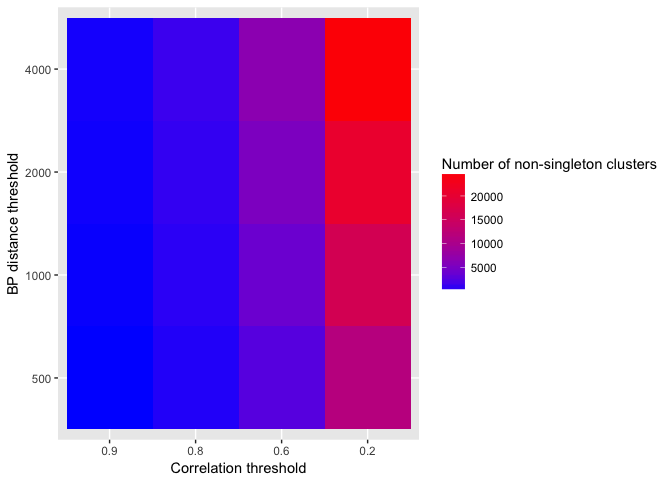
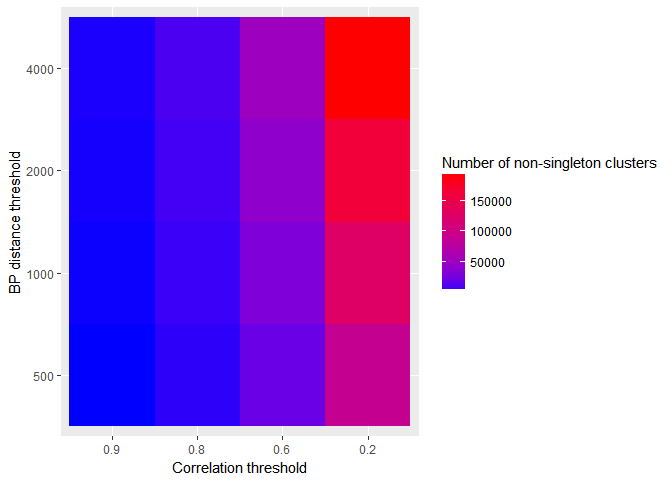
'step1'

diff --git a/Step-1-Data Processing/Step1.md b/Step-1-Data Processing/Step1.md
@@ -1,4 +1,4 @@
-Gene Heros: Step1- Preprocessing and Data Preparation
+Gene Heros: Step1 - Preprocessing and Data Preparation
 ================
 Sina Jafarzadeh
 January 13, 2018
@@ -8,45 +8,72 @@ library(ggplot2)
 library(pheatmap)
 library(magrittr)
 library(reshape2)
+library(tibble)
+library(dplyr)
 ```
+
+    ## 
+    ## Attaching package: 'dplyr'
+
+    ## The following objects are masked from 'package:stats':
+    ## 
+    ##     filter, lag
+
+    ## The following objects are masked from 'package:base':
+    ## 
+    ##     intersect, setdiff, setequal, union
 
 ***1.1 Data Introduction***
 
-Our data consists of the gene expression and methylation measurements for 508 and 702 subjects, respectively. We organized the data into the following files:
+Our data consists of the gene expression and methylation measurements for `508` and `702` subjects, respectively. We organize the data into the following files:
 
--   gene\_expression.csv: a 420103\*702 matrix showing the values for ~420 K CpG sites across 702 samples.
--   methylation.csv: a 508\*13484 matrix showing the values for ~13 K genes across 508 samples.
--   genes\_name.csv: a 13484 elements vector containing the gene symbol and the ensemble name for all genes.
--   cpg\_sites\_name: a 420103 elements vector containing the names for all cpg sites according to the Illumina Infinium HumanMethylation450K BeadChip naming convention.
--   subjects\_in\_gene\_expression\_data.csv: the cols in gene expression matrix presenting the name of subjects that we collected gene expression data for.
--   subjects\_in\_methylation\_data.csv: the rows in gene expression matrix presenting the name of subjects that we collected gene expression data for.
-
-Apparently, it imposes an unnecessary huge number of hypothesis, testing the correlation between each single CpG site and gene pair. So, We solely analyze the probes locating in a 1MB window around the gene of interest using the information encoded in probe\_gene\_distance\_matrix\_sparse.csv.
+-   `gene_expression.csv`: a 420103\*702 matrix showing the values for ~420 K CpG sites across 702 samples.
+-   `methylation.csv`: a 508\*13484 matrix showing the values for ~13 K genes across 508 samples.
+-   `genes_name.csv`: a 13484 elements vector containing the gene symbol and the ensemble name for all genes.
+-   `cpg_sites_name.csv`: a 420103 elements vector containing the names for all cpg sites according to the Illumina Infinium HumanMethylation450K BeadChip naming convention.
+-   `subjects_in_gene_expression_data.csv`: column names in gene expression matrix presenting the name of subjects that we collected gene expression data for.
+-   `subjects_in_methylation_data.csv`: the row names in gene expression matrix presenting the name of subjects that we collected gene expression data for.
+-   `methylationCoordChromHMM.csv`: chromatine state annotation for CpG sites according to ChromHMM software. Apparently, it imposes an unnecessary huge number of hypothesis, testing the correlation between each single CpG site and gene pair. So, We solely analyze the probes locating in a 1MB window around the gene of interest using the information encoded in `probe_gene_distance_matrix_sparse.csv`.
 
 ***1.2 Multicollinearity of Methylation Probes***
 
-It is known that methylation probes can be in strong Linkage Disequilibrium (LD) with their neighbouring probes. So, we need to reduce the number of probes to a set of unrelated ones. It helps us to decrease the computational cost of the model. Moreover, It is necessary to have uncorrelated probes in the second phase of the project where we want to provide a linear predictor of multiple probes for the gene of interest. There are a few tools developed for this purpose. In this project, we use A-clust algorithm provided by Harvard University. This algorithm first merges each pair of nearby probes and all of the probes located between them if the correlation between that pair is more than corr\_dist\_thresh. Nearby pairs are pairs of probes with a base pair distance less than bp\_dist\_thresh. In the next step, it merges each two neighbour probes if their correlation distance is less than corr\_dist\_thresh. We find the best values for these parameters by creating train and validation datasets. We choose the parameters based on train data and then see if they work on another validation data. We choose CpG sites on chromosomes 1-18 as train data and CpG sites in chromosome 19-22 as validation. We choose the parameters that decrease the number of probes (i.e. create as much cluster as possible) and yield the highest intra-cluster correlation between probes. Below, we plot the results for train set chromosomes:
-
-
-
-    report_matrix_clusts_number_non_singles_train <- read.table("a-clustering/report_matrix_clusts_number_non_singles_train.csv", header=FALSE, sep=",")
-    report_matrix_intra_cluster_corr_non_singles_train <- read.table("a-clustering/report_matrix_corrs_non_singles_train.csv", header=FALSE, sep=",")
-
-    row_col_combinaions = expand.grid(corr_threshold=c("0.9", "0.8", "0.6", "0.2"), bp_dist_threshold=c("500","1000","2000","4000"))
-    report_matrix_clusts_number_non_singles_train_melt = report_matrix_clusts_number_non_singles_train %>% melt()
-    report_matrix_intra_cluster_corr_non_singles_train_melt = report_matrix_intra_cluster_corr_non_singles_train %>%  melt()
-
-    heatmap_data = cbind(row_col_combinaions, number_of_clusters=report_matrix_clusts_number_non_singles_train_melt$value)
-    heatmap_data %>% ggplot(aes(corr_threshold,bp_dist_threshold,fill = number_of_clusters)) + geom_tile() + scale_fill_gradient("Number of non-singleton clusters",low = 'blue',high = 'red') +xlab('Correlation threshold')+ylab('BP distance threshold') 
-
-    heatmap_data = cbind(row_col_combinaions, intra_cluster_correlation=report_matrix_intra_cluster_corr_non_singles_train_melt$value)
-    heatmap_data %>% ggplot(aes(corr_threshold,bp_dist_threshold,fill = intra_cluster_correlation)) + geom_tile() + scale_fill_gradient("Average intra-cluser correlation",low = 'blue',high = 'red') +xlab('Correlation threshold')+ylab('BP distance threshold') 
-
-The plots suggest that corr\_threshold = 0.8 and bp\_dist\_threshold = 1000 are the best parameters in terms of the intra-cluster correlation/number of clusters trade-off. The authors of A-clust paper also suggested this parameter in their experiment on human methylation data, supporting the chosen parameters in our problem. Now, we investigate the parameters on validation set. Below, you see the similar plots for validation data:
+It is known that methylation probes can be in strong Linkage Disequilibrium (LD) with their neighbouring probes. So, we need to reduce the number of probes to a set of unrelated ones. It helps us to decrease the computational cost of the model. Moreover, It is necessary to have uncorrelated probes in the second phase of the project where we want to design linear and non-linear predictors of multiple probes for the gene of interest. Having highly correlation probes impose biases to the predictor results. There are a few tools developed for this purpose. In this project, we use [A-clust algorithm](https://academic.oup.com/bioinformatics/article/29/22/2884/314757) developed by Harvard University. This algorithm first merges each pair of nearby probes and all of the probes located between them if the correlation between that pair is more than `corr_dist_thresh` parameter. Nearby pairs are pairs of probes with a base pair distance less than `bp_dist_thresh` parameter. In the next step, it merges each two neighbour probes if their correlation distance is less than `corr_dist_thresh`. We find the best values for these parameters by creating train and validation datasets. We choose the parameters based on train data and then see if they work on another validation data. We choose CpG sites on chromosomes 1-18 as train data and CpG sites in chromosome 19-22 as validation. We choose the parameters that decrease the number of probes (i.e. create as much cluster as possible) and yield the highest intra-cluster correlation between probes. Below, we plot the results for train set chromosomes. In thie first plot we see the number of clusters with more than one probe for different configuration of parameters. In the second plot, we report the average intra-cluster correlation for the clusters found in previous plot.
 
 ``` r
-report_matrix_clusts_number_non_singles_test <- read.table("../Results/a-clust/report_matrix_clusts_number_non_singles_test.csv", header=FALSE, sep=",")
-report_matrix_intra_cluster_corr_non_singles_test <- read.table("../Results/a-clust/report_matrix_corrs_non_singles_test.csv", header=FALSE, sep=",")
+load("../rosmap_postprocV2.RData")
+
+report_matrix_clusts_number_non_singles_train <- read.table("../data/step1/a-clustering/report_matrix_clusts_number_non_singles_train.csv", header=FALSE, sep=",")
+report_matrix_intra_cluster_corr_non_singles_train <- read.table("../data/step1/a-clustering/report_matrix_corrs_non_singles_train.csv", header=FALSE, sep=",")
+
+row_col_combinaions = expand.grid(corr_threshold=c("0.9", "0.8", "0.6", "0.2"), bp_dist_threshold=c("500","1000","2000","4000"))
+report_matrix_clusts_number_non_singles_train_melt = report_matrix_clusts_number_non_singles_train %>% melt()
+```
+
+    ## No id variables; using all as measure variables
+
+``` r
+report_matrix_intra_cluster_corr_non_singles_train_melt = report_matrix_intra_cluster_corr_non_singles_train %>%  melt()
+```
+
+    ## No id variables; using all as measure variables
+
+``` r
+heatmap_data = cbind(row_col_combinaions, number_of_clusters=report_matrix_clusts_number_non_singles_train_melt$value)
+heatmap_data %>% ggplot(aes(corr_threshold,bp_dist_threshold,fill = number_of_clusters)) + geom_tile() + scale_fill_gradient("Number of non-singleton clusters",low = 'blue',high = 'red') +xlab('Correlation threshold')+ylab('BP distance threshold') 
+```
+
+![](Step1_files/figure-markdown_github/unnamed-chunk-1-1.png)
+
+``` r
+heatmap_data = cbind(row_col_combinaions, intra_cluster_correlation=report_matrix_intra_cluster_corr_non_singles_train_melt$value)
+heatmap_data %>% ggplot(aes(corr_threshold,bp_dist_threshold,fill = intra_cluster_correlation)) + geom_tile() + scale_fill_gradient("Average intra-cluser correlation",low = 'blue',high = 'red') +xlab('Correlation threshold')+ylab('BP distance threshold') 
+```
+
+![](Step1_files/figure-markdown_github/unnamed-chunk-1-2.png) The plots suggest that `corr_threshold = 0.8` and `bp_dist_threshold = 1000` are the best parameters in terms of the intra-cluster correlation/number of clusters trade-off. The authors of A-clust paper also suggested this parameter in their experiment on human methylation data, supporting the chosen parameters in this project. Now, we investigate the parameters on validation set. Below, you see the similar plots for validation data:
+
+``` r
+report_matrix_clusts_number_non_singles_test <- read.table("../data/step1/a-clustering/report_matrix_clusts_number_non_singles_test.csv", header=FALSE, sep=",")
+report_matrix_intra_cluster_corr_non_singles_test <- read.table("../data/step1/a-clustering/report_matrix_corrs_non_singles_test.csv", header=FALSE, sep=",")
 
 row_col_combinaions = expand.grid(corr_threshold=c("0.9", "0.8", "0.6", "0.2"), bp_dist_threshold=c("500","1000","2000","4000"))
 report_matrix_clusts_number_non_singles_test_melt = report_matrix_clusts_number_non_singles_test %>% melt()
@@ -65,27 +92,112 @@ heatmap_data = cbind(row_col_combinaions, number_of_clusters=report_matrix_clust
 heatmap_data %>% ggplot(aes(corr_threshold,bp_dist_threshold,fill = number_of_clusters)) + geom_tile() + scale_fill_gradient("Number of non-singleton clusters",low = 'blue',high = 'red') +xlab('Correlation threshold')+ylab('BP distance threshold') 
 ```
 
-![](Step1_files/figure-markdown_github/unnamed-chunk-1-1.png)
+![](Step1_files/figure-markdown_github/unnamed-chunk-2-1.png)
 
 ``` r
 heatmap_data = cbind(row_col_combinaions, intra_cluster_correlation=report_matrix_intra_cluster_corr_non_singles_test_melt$value)
 heatmap_data %>% ggplot(aes(corr_threshold,bp_dist_threshold,fill = intra_cluster_correlation)) + geom_tile() + scale_fill_gradient("Average intra-cluser correlation",low = 'blue',high = 'red') +xlab('Correlation threshold')+ylab('BP distance threshold') 
 ```
 
-![](Step1_files/figure-markdown_github/unnamed-chunk-1-2.png)
+![](Step1_files/figure-markdown_github/unnamed-chunk-2-2.png)
 
-It verifies the consistency of parameters fitness in train and validation data. The final results are in aclust\_sampled folder. We would need the following files:
+It verifies the consistency of parameters fitness in train and validation data. The final results are the following files. Because of the space limit, we don't uplaod the actual files to the Github repository.
 
--   methylationSNMnorm\_usr\_prb\_matrix\_sampled\_corr\_dist\_thresh\_point2\_bp\_dist\_thresh\_1000\_train.csv
+-   `methylationSNMnorm_usr_prb_matrix_sampled_corr_dist_thresh_point2_bp_dist_thresh_1000_train.csv`
 
--   methylationSNMnorm\_usr\_prb\_matrix\_sampled\_corr\_dist\_thresh\_point2\_bp\_dist\_thresh\_1000\_test.csv
+-   `methylationSNMnorm_usr_prb_matrix_sampled_corr_dist_thresh_point2_bp_dist_thresh_1000_test.csv`
 
-***1.3 Data Convertion***
+***1.3 Data Conversion***
 
-In this part, we convert the described .csv files to R language data format to make it easier to handle. We also combine the related .csv files to organize the data better. In order to lower the computational cost, we limit the analysis to chromosomes 19-22. Below is the list of final data structure saves together as rosmap\_postdocV1.RData file:
+In this part, we convert the described .csv files to the R language data format to make it easier to handle. We also combine the related .csv files to organize the data better. In order to lower the computational cost, we limit the analysis to chromosomes 19-22. Below is the list of final data structure saved together as `rosmap_postdocV1.RData` file:
 
 -   probes\_genes\_distance: a sparse matrix created by Matrix library showing the distance of each cpg probe to each gene in its neighbourhood.
 -   probes\_subjects: a data frame showing the Z-scored value for each cpg site across all subjects.
 -   subjects\_genes: a data frame showing the expression value of each gene across all subjects.
 
 We can access the list of probes, genes, and subjects using the rownames() and colnames() functions.
+
+***1.4 Exploration***
+
+According the ROSMAP data documentation, the data is QC'ed and controlled for batch and confounder effect, however it is not obvious if they removed outliers in the QC process or not. In this part, we analyze the outliers in our gene expression and methylation data. In the scatter plot below, we show the subjects with gene expression values outside the 3 standard deviation around the mean with green color, suggesting them as potential outlier. Having 468 subjects, we expect to have around ~5 green points per gene (or methylation probe).
+
+``` r
+subjects_genes=rownames_to_column(subjects_genes)
+subjects_genes_melted = melt(subjects_genes)
+```
+
+    ## Using rowname as id variables
+
+``` r
+colnames(subjects_genes_melted)=c("subject","gene","value")
+subjects_genes_melted %>% group_by(gene) %>% mutate(outlier=abs(value-mean(value))>(3*sd(value))) %>% ggplot() +  geom_point(aes(x=gene,y=value, colour=outlier)) + theme_bw() +theme_minimal()
+```
+
+![](Step1_files/figure-markdown_github/unnamed-chunk-3-1.png)
+
+Below, we see the histogram of number of potential outliers for gene and methylation data. The X axis shows the number of outlier subjects and the Y axis show the density value, showing the frequency of genes or methylation probes having that number of subjects as potential outlier. We see that the expected value of those distributions are less than 5 showing that the data does not show any form of abnormality.
+
+``` r
+probes_subjects_new = rownames_to_column(probes_subjects);
+probes_subjects_melted = probes_subjects_new %>% melt() %>% as.data.frame()
+```
+
+    ## Using rowname as id variables
+
+``` r
+colnames(probes_subjects_melted)=c("probe","subject","value")
+probes_subjects_melted=probes_subjects_melted %>% group_by(probe) %>% mutate(outlier_count=length(which(abs(value-mean(value))>3*sd(value))))
+probes_subjects_melted = probes_subjects_melted[,c("probe","outlier_count")] %>% unique() 
+
+probes_subjects_melted = as.data.frame(probes_subjects_melted)
+subjects_genes_melted = as.data.frame(subjects_genes_melted)
+
+colnames(subjects_genes_melted)=c("subject","gene","value")
+subjects_genes_melted=subjects_genes_melted %>% group_by(gene) %>% mutate(outlier_count=length(which(abs(value-mean(value))>3*sd(value))))
+subjects_genes_melted = subjects_genes_melted[,c("gene","outlier_count")] %>% unique() 
+
+subjects_genes_melted$model = "gene"
+probes_subjects_melted$model = "probe"
+
+
+probes_subjects_melted = as.data.frame(probes_subjects_melted)
+subjects_genes_melted = as.data.frame(subjects_genes_melted)
+
+
+colnames(probes_subjects_melted)=c("name","count","model")
+colnames(subjects_genes_melted)=c("name","count","model")
+
+
+first=hist(subjects_genes_melted$count,plot = FALSE)
+second=hist(probes_subjects_melted$count, plot = FALSE)
+
+first_hist=rbind(first$mids,first$density) %>% t() %>% as.data.frame()
+second_hist = rbind(second$mids, second$density) %>% t() %>% as.data.frame()
+first_hist$type="gene histogram"
+second_hist$type = "probe histogram"
+overall=rbind(first_hist,second_hist)
+ggplot() +geom_smooth(data=overall, aes(x=V1, y=V2, colour = type)) +xlab("Number of Outlier Subjects") +ylab("Density") + theme_bw() + theme(axis.line = element_line(colour = "black"),
+    panel.grid.major = element_blank(),
+    panel.grid.minor = element_blank(),
+    panel.border = element_blank(),
+    panel.background = element_blank())  + scale_fill_discrete(name = "New Legend Title")
+```
+
+    ## `geom_smooth()` using method = 'loess'
+
+![](Step1_files/figure-markdown_github/unnamed-chunk-4-1.png)
+
+``` r
+gene_distribution_expected_value = sum(first_hist$V1*first_hist$V2)
+methylation_distribution_expected_value = sum(second_hist$V1*second_hist$V2)
+
+gene_distribution_expected_value
+```
+
+    ## [1] 1.137326
+
+``` r
+methylation_distribution_expected_value
+```
+
+    ## [1] 2.912492
